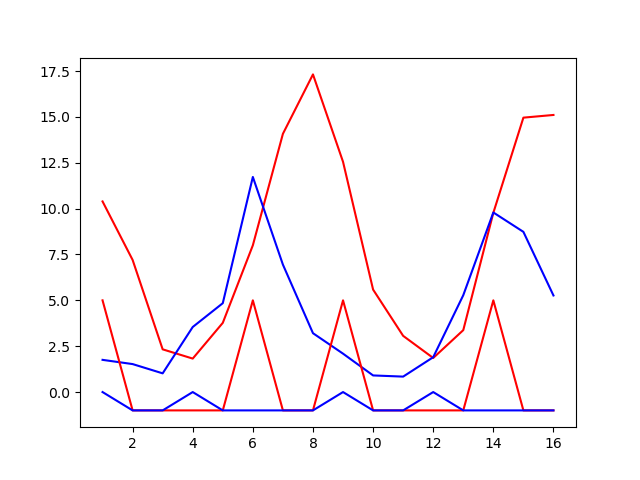
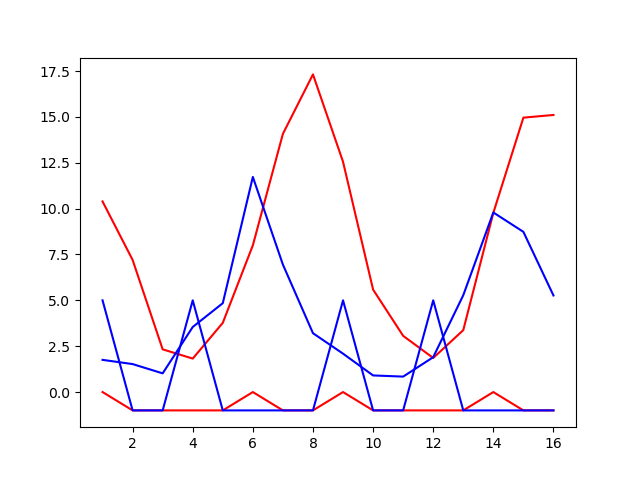
A new one, clean this time

diff --git a/NetworkClass.py b/NetworkClass.py
@@ -142,8 +142,6 @@ class Network:
                 count += 1
             elif len(node.inward) == 2:
                 count += 3
-                
-        nodes = self.nodes
         
         for i in range(2**count):
             LCs.append(binaryList(i,count))
@@ -160,97 +158,6 @@ class Network:
         return (LCs, chart)
 
     #AND and ID are 1, OR and NOT are 0 !!!!!!!!
-        
-        
-        
-def costFunction(Model, data):
-    
-    total_cost = 0
-    local_cost = 0
-    cleared_edges = []
-    for node in Model.network.nodes:
-        local_cost = 0
-        upstream_act = []
-        downstream_act = []
-        
-        threshold_up = Model[node] 
-        for real_value in data[node]:
-            if real_value <= threshold_up:
-                upstream_act.append(1)
-            else:
-                upstream_act.append(0)
-        
-        for edge in node.outward:
-             if edge not in cleared_edges:       
-                delay = Model[edge]
-                node2 = edge.node2
-                threshold_down = Model[node2]
-                if len(node2.inward) == 1:
-                    for r_value in data[node2]:
-                        if r_value <= threshold_down:
-                            downstream_act.append(1)
-                        else:
-                            downstream_act.append(0)
-                    local_cost = correlation1on1(upstream_act, downstream_act, delay)
-
-                elif len(node2.inward) == 2:
-                    other_up_node = node2.inward[0].node1
-                    other_edge = node2.inward[0]
-                    if (other_up_node == node):
-                        other_up_node = node2.inward[1].node1
-                        other_edge = node2.inward[1]
-                    delay2 = Model[other_edge]
-                    gate = Model.LC[node2]
-                    other_thres = Model[other_up]
-                    other_node_act = []
-                    for r_value in data[other_up_node]:
-                        if r_value <= other_thres:
-                            other_node_act.append(1)
-                        else:
-                            other_node_act.append(0) 
-
-                    local_cost = correlation2on1(upstream_act,other_node_act,downstream_act, gate, delay, delay2)
-
-                
-
-        total_cost += local_cost
-
-    return total_cost
-
-def correlation1on1(up, down, delay):
-    downstream_effect = []
-    cost = 0
-    for i in len(up):
-        downstream_effet.append(0)
-    for i in len(up):
-        if up[i] == 1:
-            downstream_effect[(i+delay)%16] = 1
-
-    for value1, value2 in zip(down,downstream_effect):
-        if value1 == value2:
-            cost += 1
-    
-    return cost
-
-def correlation2on1(up1,up2,down, gate, delay1, delay2):
-    
-    downstream_effect = []
-    for i in len(up1):
-        downstream_effect.append(0)
-    cost = 0
-    if gate == "AND":
-        for i in len(downstream_effect):
-            if up1[(i-delay1)%16] == 1 and up2[(i-delay2)%16] == 1:
-                downstream_effect[i] == 1
-    elif gate == "OR":
-        if up1[(i-delay1)%16] == 1 or up2[(i-delay2)%16] == 1:
-                downstream_effect[i] == 1
-
-    for value1, value2 in zip(down,downstream_effect):
-        if value1 == value2:
-            cost += 1
-
-    return cost
 
 def binaryList(numb, size):
     number = []

diff --git a/SimpleCryPerTest2.py b/SimpleCryPerTest2.py
@@ -111,8 +111,19 @@ signal_from_per = a_model.parameters[Per_Cry]
 for i in range(len(time)):
     cry_act.append(-1)
     per_act.append(-1)
-cry_act[0] = 5
-per_act[0] = 0
+
+if cry1[0] >= thres_cry:
+    cry_act[0] = 5
+else:
+    cry_act[0] = 0
+
+if per1[0] >= thres_per:
+    per_act[0] = 5
+else:
+    per_act[0] = 0
+
+print(cry_act)
+print(per_act)
 
 if good_fits[number][0] == 0:
     for j in range(len(time)*2):
@@ -130,13 +141,13 @@ elif good_fits[number][0] == 3:
     for j in range(len(time)*2):
         for i in range(len(time)):
             if cry_act[i] == 5:
-                per_act[(i+signal_from_cry)%16] = 0
-            elif cry_act[i] == 0:
                 per_act[(i+signal_from_cry)%16] = 5
+            elif cry_act[i] == 0:
+                per_act[(i+signal_from_cry)%16] = 0
             if per_act[i] == 5:
-                cry_act[(i+signal_from_per)%16] = 0
-            elif per_act[i] == 0:
                 cry_act[(i+signal_from_per)%16] = 5
+            elif per_act[i] == 0:
+                cry_act[(i+signal_from_per)%16] = 0
 
 plt.plot(time,cry_act,c="r")
 plt.plot(time,per_act,c="b")

diff --git a/costFunction.py b/costFunction.py
@@ -17,7 +17,7 @@ def costFunction(Model):
                 upstream_act.append(1)
             else:
                 upstream_act.append(0)
-        
+
         for edge in node.outward:
              if edge not in cleared_edges:       
                 delay = Model.parameters[edge]
